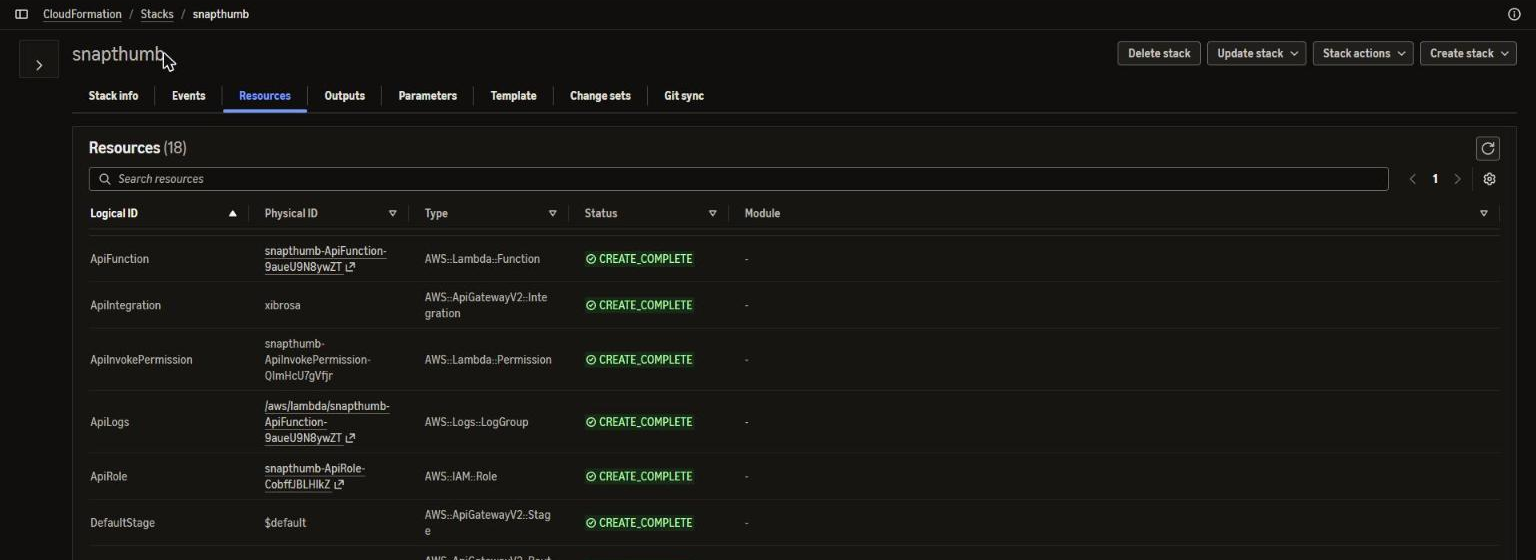
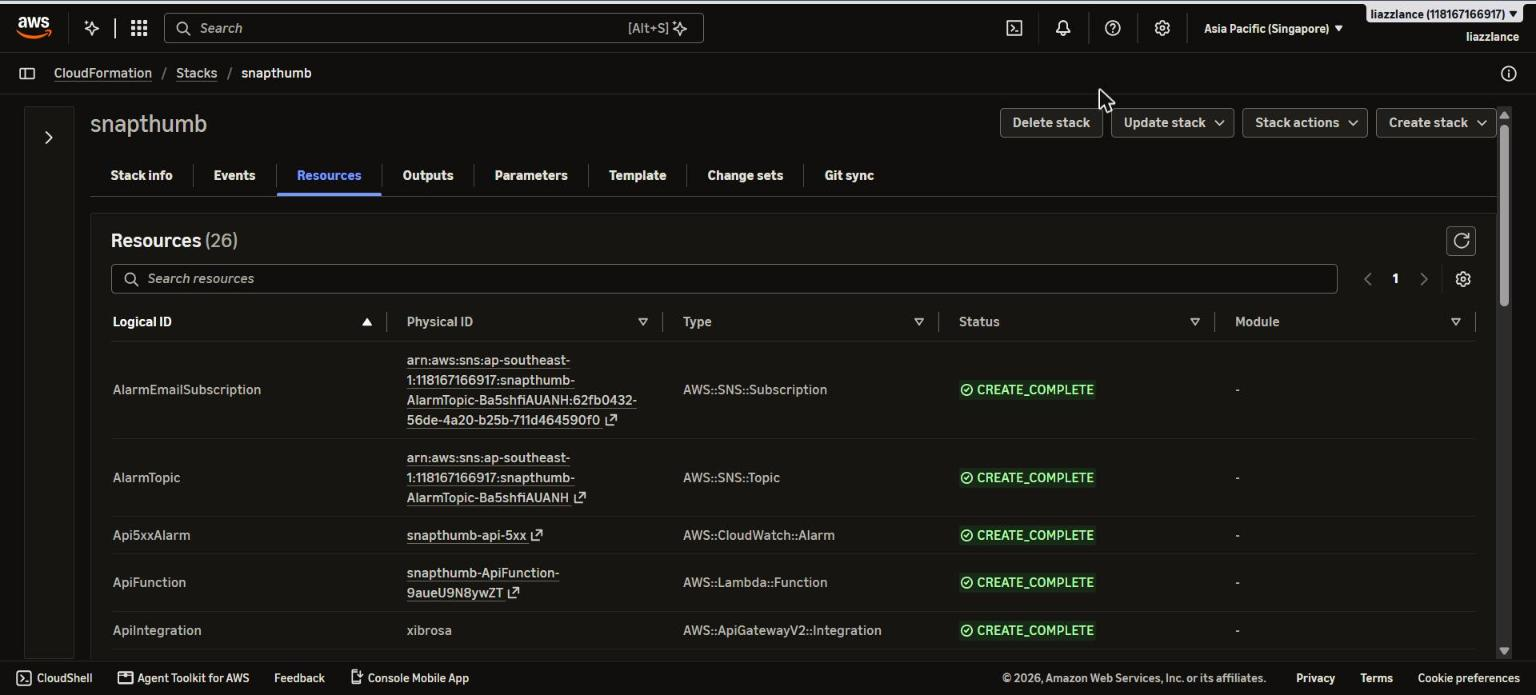
Workshop review: fix WAF claim, add CloudFront details, refresh 5.9 screenshots
- 5.8: HTTP APIs cannot attach AWS WAF directly; CloudFront troubleshooting rows; log retention and CloudFront monitoring; challenge row for the CloudFront migration
- 5.1: security rows for web bucket and HTTPS in transit; CloudFront/OAC concept
- 5.2 DISTRIBUTION_ID placeholder; 5.3 CORS tip; 5.6.1 memory 256 MB
- 5.9: outputs table, new screenshots (26 resources, website resources); 5.10 budget note

Claude-Session: https://claude.ai/code/session_01Aoo71d7Lw8UMT4RCoMPs3M

diff --git a/content/5-Workshop/5.1-Workshop-overview/_index.md b/content/5-Workshop/5.1-Workshop-overview/_index.md
@@ -23,7 +23,7 @@ The system has two Lambda functions with different jobs:
 
 ![SnapThumb architecture](/images/5-Workshop/architecture-en.svg?width=100pc)
 
-The numbers in the diagram follow the data flow: (1) open the web page, (2) `POST /uploads`, (3) API Gateway calls the API Lambda, (4) it writes a `PENDING` record and returns a signed link, (5) the browser uploads straight to S3, (6) the `ObjectCreated` event calls the thumbnail Lambda, (7) it saves the thumbnail in `thumbnails/`, (8) updates the record to `DONE`, (9) the page lists images with `GET /images`. CloudWatch collects logs, metrics and alarms throughout.
+The numbers in the diagram follow the data flow: (1) open the web page through CloudFront over HTTPS, (2) `POST /uploads`, (3) API Gateway calls the API Lambda, (4) it writes a `PENDING` record and returns a signed link, (5) the browser uploads straight to S3, (6) the `ObjectCreated` event calls the thumbnail Lambda, (7) it saves the thumbnail in `thumbnails/`, (8) updates the record to `DONE`, (9) the page lists images with `GET /images`. CloudWatch collects logs, metrics and alarms throughout.
 
 ## Why these services
 
@@ -31,7 +31,7 @@ The numbers in the diagram follow the data flow: (1) open the web page, (2) `POS
 | --- | --- | --- | --- |
 | Store originals and thumbnails, notify on new files | **Amazon S3** | Unlimited, cheap storage; built-in Event Notifications start the processing; presigned POST lets the browser upload directly with size and type limits | Disk on EC2 / EFS: needs a running server and has no built-in "new file" event |
 | Process each image | **AWS Lambda** | Runs only when an image arrives, billed per millisecond, scales out automatically when many images arrive at once | EC2 or ECS worker: pays 24/7 even when idle, needs scaling and patching |
-| HTTPS endpoints for the web page | **Amazon API Gateway – HTTP API** | Managed HTTPS, CORS and throttling with no server; cheaper and lower latency than REST API, and SnapThumb needs none of the REST-only features (API keys, request validation) | REST API (more features, higher price); ALB + EC2 (always-on cost) |
+| HTTPS endpoints for the web page | **Amazon API Gateway – HTTP API** | Managed HTTPS, CORS and throttling with no server; cheaper and lower latency than REST API, and SnapThumb needs none of the REST-only features (API keys, request validation, direct AWS WAF integration) | REST API (more features, higher price); ALB + EC2 (always-on cost) |
 | Store each image's status and details | **Amazon DynamoDB (on-demand)** | Simple key–value access by `id`, millisecond latency, no server or connection pool to manage from Lambda, pay per request | Amazon RDS: always-on instance cost, schema and database connections from Lambda to manage |
 | Logs, metrics and alerts | **Amazon CloudWatch** | Lambda and API Gateway send logs and metrics automatically; metric filters turn log lines into metrics; alarms watch them | Third-party monitoring: extra cost and agents |
 | Serve the web page securely | **Amazon CloudFront** + Origin Access Control | HTTPS with an AWS certificate, edge caching, and the web bucket stays private: only this distribution can read it | S3 static website endpoint: HTTP only and the bucket must be public |
@@ -48,6 +48,8 @@ The numbers in the diagram follow the data flow: (1) open the web page, (2) `POS
 | Permissions too broad | Each role has only the actions it needs, scoped to the table and to a prefix: the thumbnail function can only read `uploads/*`, write `thumbnails/*` and call `UpdateItem` |
 | Malicious or oversized uploads | The API checks type and size; the presigned POST carries `Content-Type` and `content-length-range` conditions so S3 itself rejects other files; upload links expire after 5 minutes; Pillow checks the real file content |
 | API abuse | Throttling of 10 requests/s (burst 20) on the HTTP API |
+| Someone reads or changes the web page files in S3 | The web bucket blocks all public access; only the CloudFront distribution can read it (Origin Access Control, policy condition on the distribution ARN) |
+| Data intercepted in transit | Every connection is HTTPS: CloudFront redirects HTTP to HTTPS, API Gateway and presigned S3 links use HTTPS only |
 | Data at rest | S3 encrypts objects (SSE-S3, AES-256) and DynamoDB encrypts the table by default |
 | Problems go unnoticed | CloudWatch alarms email the administrator through SNS (5.8) |
 
@@ -76,6 +78,9 @@ A zip of libraries shared by functions. Pillow (the Python imaging library) is n
 
 #### DynamoDB on-demand
 A NoSQL table billed per request, with no capacity to plan. Each image is one item keyed by `id`.
+
+#### CloudFront and Origin Access Control (OAC)
+CloudFront is AWS's content delivery network: it serves files over HTTPS from edge locations near the user and caches them. With **OAC**, CloudFront signs every request it sends to S3, and the bucket policy allows only that distribution. The bucket stays private, yet the page is public through the CloudFront link.
 
 #### Metric filter and alarm
 A **metric filter** counts log lines that match a pattern (for example `Failed to process`) and publishes the count as a CloudWatch metric. An **alarm** watches a metric and, when it crosses a threshold, sends a message to an Amazon SNS topic, which emails the subscribers.

diff --git a/content/5-Workshop/5.8-Testing-Monitoring/_index.md b/content/5-Workshop/5.8-Testing-Monitoring/_index.md
@@ -46,6 +46,8 @@ Repeat the table with your own phone photos: the page shows the size, savings an
 ## Monitoring
 1. **Lambda → snapthumb-thumbnail → Monitor**: invocations, duration, errors.
 2. **CloudWatch → Log groups → /aws/lambda/snapthumb-thumbnail**: one log line per image with sizes before and after.
+3. Log groups that Lambda creates by itself never expire. If you built by hand, select both `/aws/lambda/snapthumb-…` groups → **Actions → Edit retention setting(s)** → **2 weeks**, so logs do not pile up (the CloudFormation template already sets 14 days).
+4. **CloudFront → Monitoring** (or **View metrics** on the distribution page): requests, data transferred and the share of 4xx/5xx errors for the web page.
 
 ![Monitor tab of the Thumbnail Lambda](/images/5-Workshop/5.8/01-monitor.png?width=90pc)
 
@@ -105,6 +107,9 @@ Result on AWS (ap-southeast-1, 22/11/2026): three fake images were uploaded; `sn
 | A card stays at "Processing" after a failed upload | Old page version kept the `PENDING` record | Use the current `index.html`: it deletes the record when the upload fails and stops polling after 2 minutes |
 | No alert email arrives | Subscription not confirmed, or the email went to spam | **SNS → Subscriptions**: status must be *Confirmed*; check the spam folder |
 | An "OK" alert email right after creating the alarms | Each alarm moves from *Insufficient data* to *OK* once | Normal, nothing to do |
+| The CloudFront link shows `AccessDenied` | Bucket policy is missing or has the wrong distribution ID, or *Default root object* is empty | Copy the policy again from the distribution's **Origins → Edit** page; set *Default root object* to `index.html` (5.7) |
+| The page still shows the old version or the *demo mode* badge | CloudFront serves the cached files | **Invalidations → Create invalidation** → `/*`, then reload; check that `config.js` is in the bucket |
+| The distribution stays at *Deploying* | A new or changed distribution takes a few minutes to reach every edge location | Wait 5–10 minutes |
 | The console shows no table, function or alarm | Another region is selected | Choose **Asia Pacific (Singapore)** at the top right (S3 lists buckets from every region, other services do not) |
 
 ## Challenges and solutions
@@ -116,6 +121,7 @@ Result on AWS (ap-southeast-1, 22/11/2026): three fake images were uploaded; `sn
 | Circular dependency in CloudFormation | The bucket needs the Lambda permission, and the permission needs the bucket ARN | Build the bucket name from the stack name and account ID, and make the bucket depend on the permission | Use predictable names to break cycles |
 | Pillow does not run on Lambda when installed on a laptop | Wheels built for Windows or macOS do not load on Amazon Linux | `pip install --platform manylinux… --python-version 3.12 --only-binary=:all:` in CloudShell | Package native libraries for the Lambda runtime and architecture |
 | Bug found only on real AWS | An image uploaded from the S3 console had no record from the API, so `GET /images` crashed with a 500 | Fill missing fields with `if_not_exists`, read optional fields with `.get()`, add 2 regression tests | Mocks pass only what you thought of; test end to end on the real service |
+| Website bucket had to be public | The first version used the S3 static website endpoint: HTTP only, and the bucket needed a public policy | Moved to CloudFront + Origin Access Control in two stack updates (first add the distribution next to the public site, test it, then lock the bucket), so the site never went offline | Keep buckets private and put CloudFront in front; change live systems in small, tested steps |
 | Users lying about file size | The browser declares the size; a client could send a bigger file | `content-length-range` in the presigned POST policy: S3 itself rejects files over 10 MB (`400 EntityTooLarge`) | Enforce limits on the server side, not only in the UI |
 
 ## Limitations and next steps
@@ -125,6 +131,6 @@ SnapThumb is a demo. These are known limitations and how AWS services would addr
 | Limitation | Risk | Next step |
 | --- | --- | --- |
 | The API has no sign-in | Anyone who knows the API address can list and **delete every image** | Add an **Amazon Cognito** user pool and a JWT authorizer on the HTTP API; store `userId` with each image |
-| No firewall in front of the website and API | Bots can flood the page or API beyond the throttling limit | Attach **AWS WAF** rate-based rules to the CloudFront distribution (the bucket is already private behind CloudFront with Origin Access Control) |
+| No firewall in front of the website and API | Bots can use up the API's throttling limit (real users then get `429`) or flood the page | Attach **AWS WAF** rate-based rules to the CloudFront distribution. HTTP APIs cannot use WAF directly, so also route the API through CloudFront (for example a `/api/*` behavior) or switch to a REST API |
 | `GET /images` scans the whole table | Gets slower and costlier as images grow | Add a GSI on `createdAt` (or per-user key) and use `Query` with pagination |
 | A failed thumbnail is not retried | A temporary error leaves the image `FAILED` | Configure an on-failure destination / **SQS dead-letter queue** and retry |

diff --git a/content/5-Workshop/5.9-CloudFormation/_index.vi.md b/content/5-Workshop/5.9-CloudFormation/_index.vi.md
@@ -20,6 +20,18 @@ Toàn bộ những gì làm ở mục 5.3–5.7 có thể tạo bằng một tem
 
 Muốn đổi các tham số còn lại, sửa `Default` trong template hoặc truyền `--parameter-overrides` cho `aws cloudformation deploy`.
 
+Sau khi deploy, tab **Outputs** liệt kê những thông tin cần dùng:
+
+| Output | Dùng để |
+| --- | --- |
+| `WebsiteUrl` | Địa chỉ HTTPS CloudFront của trang web (production link) |
+| `ApiUrl` | Invoke URL của API, được ghi vào `config.js` |
+| `DistributionId` | Xoá cache sau khi upload trang web mới |
+| `ImagesBucketName`, `WebBucketName`, `TableName` | Tìm tài nguyên trên console |
+| `ApiFunctionName`, `ThumbnailFunctionName` | Xem log và giám sát trong Lambda / CloudWatch |
+| `AlarmTopicArn` | Thêm người quản trị nhận cảnh báo |
+
+
 ## Một phụ thuộc vòng cần giải
 Trigger của bucket cần hàm Lambda, quyền gọi hàm cần ARN của bucket, và IAM policy của hàm cũng cần bucket. Nếu cả hai tham chiếu thẳng tới tài nguyên bucket sẽ tạo thành vòng, CloudFormation từ chối. Template giải bằng cách **tạo tên bucket từ tên stack**: `${AWS::StackName}-images-${AWS::AccountId}-${AWS::Region}`. Quyền gọi hàm và policy dùng chuỗi tên này thay vì tham chiếu tới bucket.
 
@@ -38,7 +50,9 @@ bash deploy.sh
 
 `deploy.sh` chạy bốn bước: tạo hoặc cập nhật stack; đóng gói hàm Thumbnail kèm Pillow; upload code cho cả hai hàm; upload trang web với `config.js` đã điền sẵn và xoá cache CloudFront (invalidation `/*`). Cuối cùng script in ra địa chỉ HTTPS của CloudFront.
 
-![tab Resources của stack CloudFormation](/images/5-Workshop/5.9/01-stack.png?width=90pc)
+![tab Resources của stack CloudFormation: 26 tài nguyên](/images/5-Workshop/5.9/01-stack.png?width=90pc)
+
+![Bốn tài nguyên của trang web: bucket riêng tư, bucket policy, CloudFront distribution và Origin Access Control](/images/5-Workshop/5.9/02-web-resources.png?width=90pc)
 
 ## Kiểm thử tự động
 `backend/test_app.py` chạy toàn luồng trên AWS giả lập (moto): tạo link upload, upload, chạy hàm tạo thumbnail, liệt kê, xoá, cùng các trường hợp file hỏng, PNG trong suốt, ảnh dọc, ảnh nhỏ và dữ liệu đầu vào sai. Hai test hồi quy kiểm tra ảnh upload thẳng lên S3 và bản ghi thiếu khoá file.

diff --git a/content/5-Workshop/5.9-CloudFormation/_index.md b/content/5-Workshop/5.9-CloudFormation/_index.md
@@ -20,6 +20,18 @@ Everything in 5.3–5.7 can be created by one template. This is **Infrastructure
 
 To change the other parameters, edit their `Default` in the template or pass `--parameter-overrides` to `aws cloudformation deploy`.
 
+After deployment, the **Outputs** tab lists what you need:
+
+| Output | Used for |
+| --- | --- |
+| `WebsiteUrl` | The HTTPS CloudFront address of the web page (the production link) |
+| `ApiUrl` | The API Invoke URL, written into `config.js` |
+| `DistributionId` | Cache invalidation after uploading a new page |
+| `ImagesBucketName`, `WebBucketName`, `TableName` | Finding the resources in the console |
+| `ApiFunctionName`, `ThumbnailFunctionName` | Logs and monitoring in Lambda / CloudWatch |
+| `AlarmTopicArn` | Adding another administrator to the alerts |
+
+
 ## A circular dependency to solve
 The bucket's trigger needs the function, the function's permission needs the bucket's ARN, and the function's IAM policy also needs the bucket. Referencing the bucket resource from both would create a cycle CloudFormation refuses. The template breaks it by **building the bucket name from the stack name**: `${AWS::StackName}-images-${AWS::AccountId}-${AWS::Region}`. The permission and the policy use that string, not a reference to the bucket.
 
@@ -38,7 +50,9 @@ Verified on a real account (ap-southeast-1, 18/11/2026): the template created al
 
 `deploy.sh` runs four steps: create or update the stack; package the Thumbnail function with Pillow; upload both functions' code; upload the web page with `config.js` filled in and clear the CloudFront cache (invalidation `/*`). It prints the HTTPS CloudFront address at the end.
 
-![CloudFormation stack Resources tab](/images/5-Workshop/5.9/01-stack.png?width=90pc)
+![CloudFormation stack Resources tab: 26 resources](/images/5-Workshop/5.9/01-stack.png?width=90pc)
+
+![The four website resources: private bucket, bucket policy, CloudFront distribution and Origin Access Control](/images/5-Workshop/5.9/02-web-resources.png?width=90pc)
 
 ## Automated tests
 `backend/test_app.py` runs the whole flow against mocked AWS (moto): create an upload link, upload, run the thumbnail handler, list, delete, plus broken files, transparent PNGs, portrait and small images, and invalid input. Two regression tests cover images uploaded straight to S3 and records without file keys.

diff --git a/content/5-Workshop/5.2-Prerequiste/_index.vi.md b/content/5-Workshop/5.2-Prerequiste/_index.vi.md
@@ -46,6 +46,7 @@ Thay các chỗ giữ chỗ ở mọi nơi bạn gặp:
 | `<ten-ban>` / `YOURNAME` | một tên ngắn, chữ thường, không dấu, không khoảng trắng (tên bucket là duy nhất toàn cầu) | `minhquan` |
 | `ACCOUNT_ID` | Account ID 12 chữ số (bước 4) | `123456789012` |
 | `https://abc123.execute-api…` | Invoke URL của API (5.6.2) | |
+| `DISTRIBUTION_ID` | ID của CloudFront distribution (5.7) | `E1A2B3C4D5E6F7` |
 
 ## 7. AWS CloudShell
 Các bước dòng lệnh (đóng gói Pillow, thử API bằng curl, deploy bằng CloudFormation) chạy trong **CloudShell**: biểu tượng `>_` trên thanh trên cùng của console. CloudShell có sẵn AWS CLI, Python 3 và pip, và đã đăng nhập bằng user của bạn, nên không cần cài gì trên máy.

diff --git a/content/5-Workshop/5.2-Prerequiste/_index.md b/content/5-Workshop/5.2-Prerequiste/_index.md
@@ -46,6 +46,7 @@ Replace the placeholders everywhere you see them:
 | `<yourname>` / `YOURNAME` | a short lowercase name, no accents or spaces (bucket names are global) | `minhquan` |
 | `ACCOUNT_ID` | your 12-digit account ID (step 4) | `123456789012` |
 | `https://abc123.execute-api…` | the Invoke URL of your API (5.6.2) | |
+| `DISTRIBUTION_ID` | the ID of your CloudFront distribution (5.7) | `E1A2B3C4D5E6F7` |
 
 ## 7. AWS CloudShell
 Command-line steps (packaging Pillow, testing with curl, deploying with CloudFormation) run in **CloudShell**: the `>_` icon in the console's top bar. It already has the AWS CLI, Python 3 and pip, and is signed in as your user, so nothing needs installing on your computer.

diff --git a/content/5-Workshop/5.10-Cleanup/_index.md b/content/5-Workshop/5.10-Cleanup/_index.md
@@ -26,6 +26,8 @@ Type `yes`; the script empties both buckets and deletes the stack. Deleting the 
 
 If you also published the Pillow layer in 5.5.1, delete it as well: **Lambda → Layers → `pillow-py312` → Delete** for each version. Layers are not part of the stack.
 
+The monthly budget from 5.2 can stay as a safety net; delete it in **Billing and Cost Management → Budgets** if you no longer want its emails.
+
 ## Cost of leaving it running
 If you need to keep SnapThumb online for a while (for example until the report is graded), it costs almost nothing (the detailed estimate by usage is in [Proposal, section 6](../../2-proposal/)):
 

diff --git a/content/5-Workshop/5.6-API/5.6.1-API-Lambda/_index.vi.md b/content/5-Workshop/5.6-API/5.6.1-API-Lambda/_index.vi.md
@@ -174,7 +174,7 @@ lambda_handler = handler  # tên hàm mặc định của Lambda console / defau
 | `item.get(...)` khi liệt kê/xoá | Bản ghi thiếu `originalKey` hoặc `thumbKey` (ảnh lỗi, ảnh upload từ console) vẫn được liệt kê và xoá, không làm hỏng cả API |
 
 ## Bước 2: Cấu hình
-1. **Timeout** `10` giây.
+1. **Configuration → General configuration → Edit:** **Memory** `256` MB, **Timeout** `10` giây.
 2. **Environment variables:** `TABLE_NAME` = `snapthumb-images`, `BUCKET_NAME` = `snapthumb-images-<ten-ban>`.
 
 ## Bước 3: Cấp quyền

diff --git a/content/5-Workshop/5.6-API/5.6.1-API-Lambda/_index.md b/content/5-Workshop/5.6-API/5.6.1-API-Lambda/_index.md
@@ -174,7 +174,7 @@ lambda_handler = handler  # tên hàm mặc định của Lambda console / defau
 | `item.get(...)` in list/delete | Records without `originalKey` or `thumbKey` (failed or console uploads) are listed and deleted without crashing the whole API |
 
 ## Step 2: Configuration
-1. **Timeout** `10` sec.
+1. **Configuration → General configuration → Edit:** **Memory** `256` MB, **Timeout** `10` sec.
 2. **Environment variables:** `TABLE_NAME` = `snapthumb-images`, `BUCKET_NAME` = `snapthumb-images-<your-name>`.
 
 ## Step 3: Permissions
